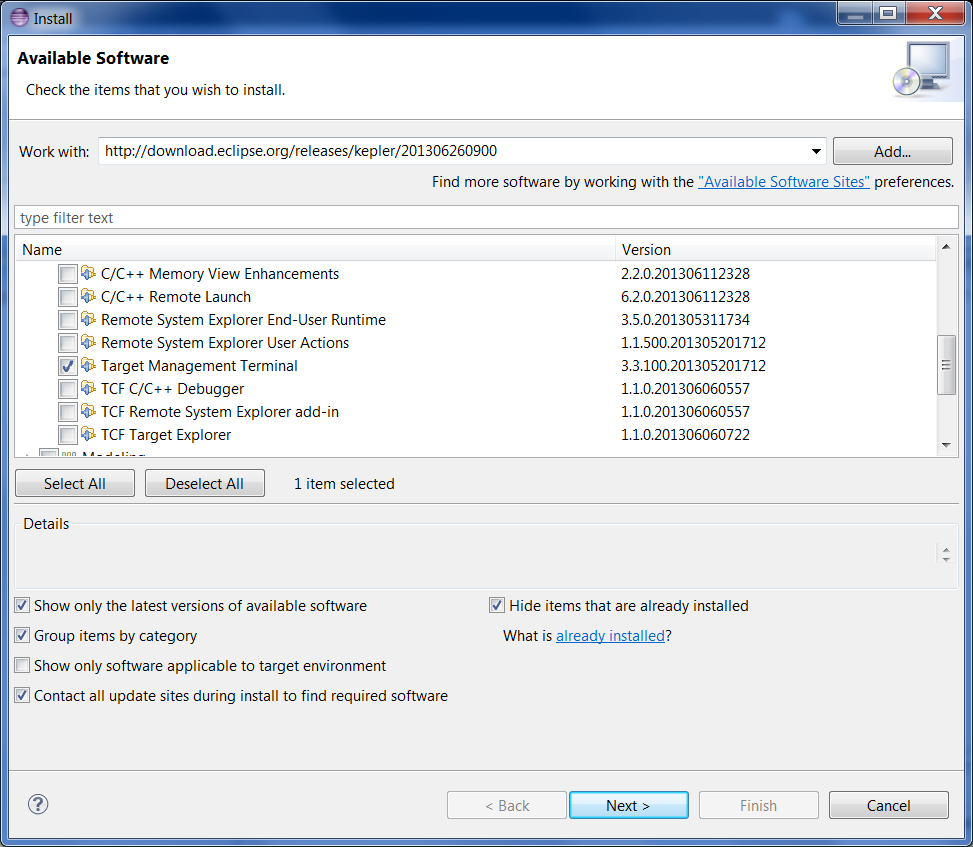
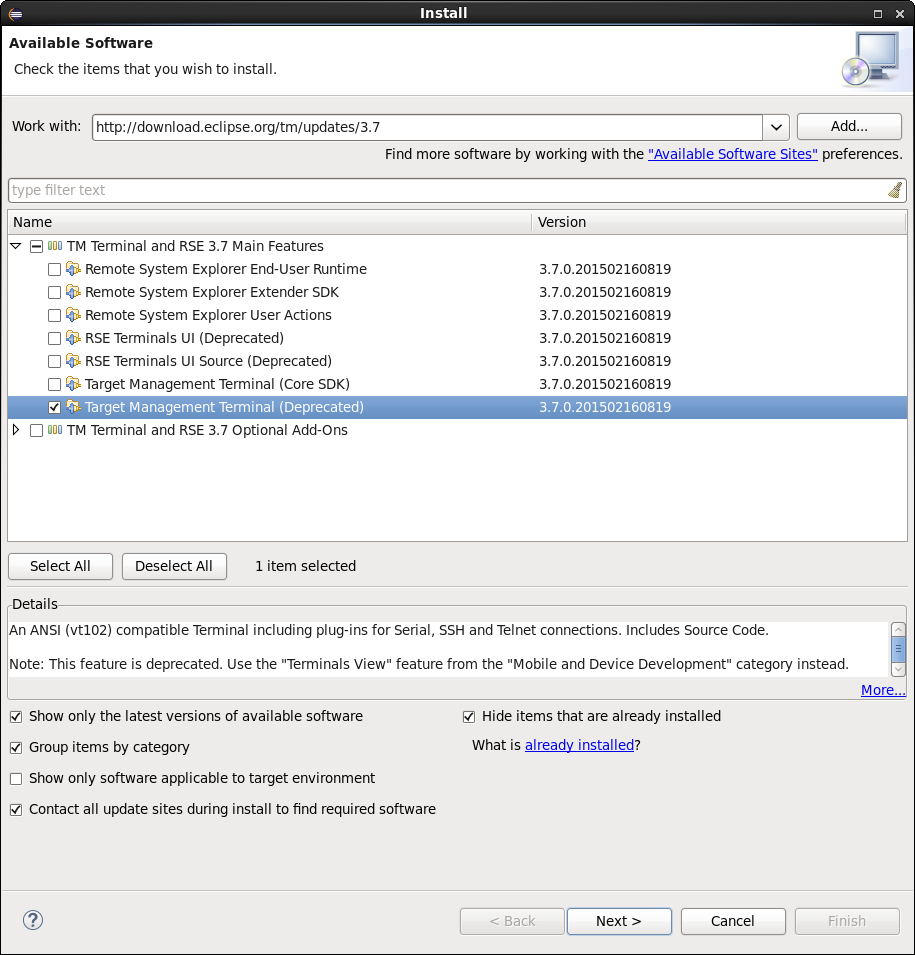
Update plugin installation instructions

Changed region(s): [[0.0, 0.0, 1.0, 1.0]]

diff --git a/Installation.md b/Installation.md
@@ -72,42 +72,49 @@ To install Eclipse IDE for GNU Toolchain for ARC manually:
 ### 3.1 Downloading latest plugins ###
 
 User can get this plug-in from website URL
-<https://github.com/foss-for-synopsys-dwc-arc-processors/arc_gnu_eclipse/releases>,
+<https://github.com/foss-for-synopsys-dwc-arc-processors/toolchain/releases/>,
 this is an archived version of the GNU ARC Eclipse plug-in update site, the
-file name is arc_gnu_plugins.zip
+file name is arc_gnu_<version>_ide_plugins.zip
 
 ![Components of ARC_GNU_IDE_plugins.zip]
 (images/install/components_of_arc_gnu_plugins_zip.png)
 
-_Components of arc_gnu_plugins.zip_
+_Components of arc_gnu_ide_plugins.zip_
 
 ![Components of arc_gnu_plugins.zip/features]
 (images/install/components_of_arc_gnu_plugins_zip_features.png)
 
-_Components of arc_gnu_plugins.zip features_
+_Components of arc_gnu_ide_plugins.zip features_
 
 ![Components of arc_gnu_plugins.zip plugins]
 (images/install/components_of_arc_gnu_plugins_zip_plugins.png)
 
-_Components of arc_gnu_plugins.zip plugins_
+_Components of arc_gnu_ide_plugins.zip plugins_
 
 
 ### 3.2 Installing into Eclipse ###
 
 To run ARC plugins for Eclipse, it is required to have Target Terminal plugin
 installed in Eclipse. In Eclipse go to "Help", then "Install new Software",
-select "Luna" in "Work with" combo box, then select Target Management Terminal
-which is "An ANSI (vt102) compatible Terminal including plug-ins for Serial,
-SSH and Telnet connections."
+press "Add" button to the right of "Work with" combo box and add new software
+repository http://download.eclipse.org/tm/updates/3.7:
+
+![Adding new repository]
+(images/install/adding_new_repository.png)
+
+_Adding new repository_
+
+Select this repository under "Work with" and install "Target Management
+Terminal (Deprecated)" plugin from "TM Terminal and RSE 3.7 Main Features" group.
 
 ![Installation of Eclipse terminal plugin]
 (images/install/installation_of_eclipse_terminal_plugin.png)
 
 _Installation of Eclipse terminal plugin_
 
-After downloading arc_gnu_plugins.zip successfully, user also can install it
+After downloading arc_gnu_ide_plugins.zip successfully, user also can install it
 from local by pointing Eclipse to it: `Eclipse -> Install New Software -> Add ->
-Archive ->` select arc_gnu_plugins.zip file. Unzip this archived folder, there
+Archive ->` select arc_gnu_ide_plugins.zip file. Unzip this archived folder, there
 will be six components in it.
 
 ![Install from local PC]
